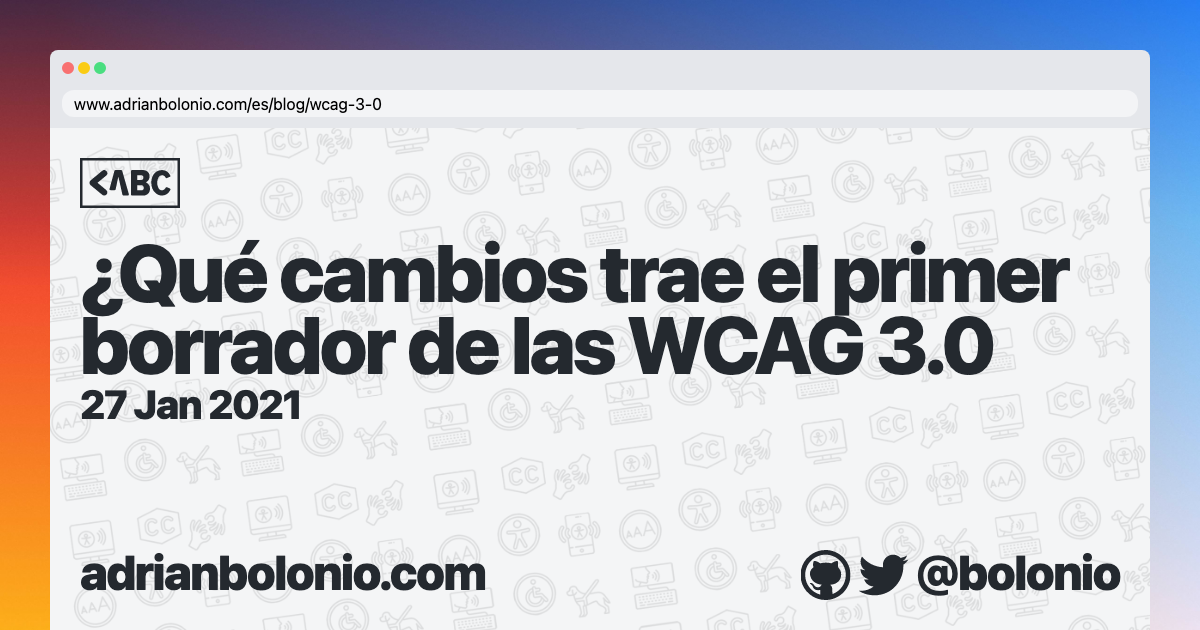
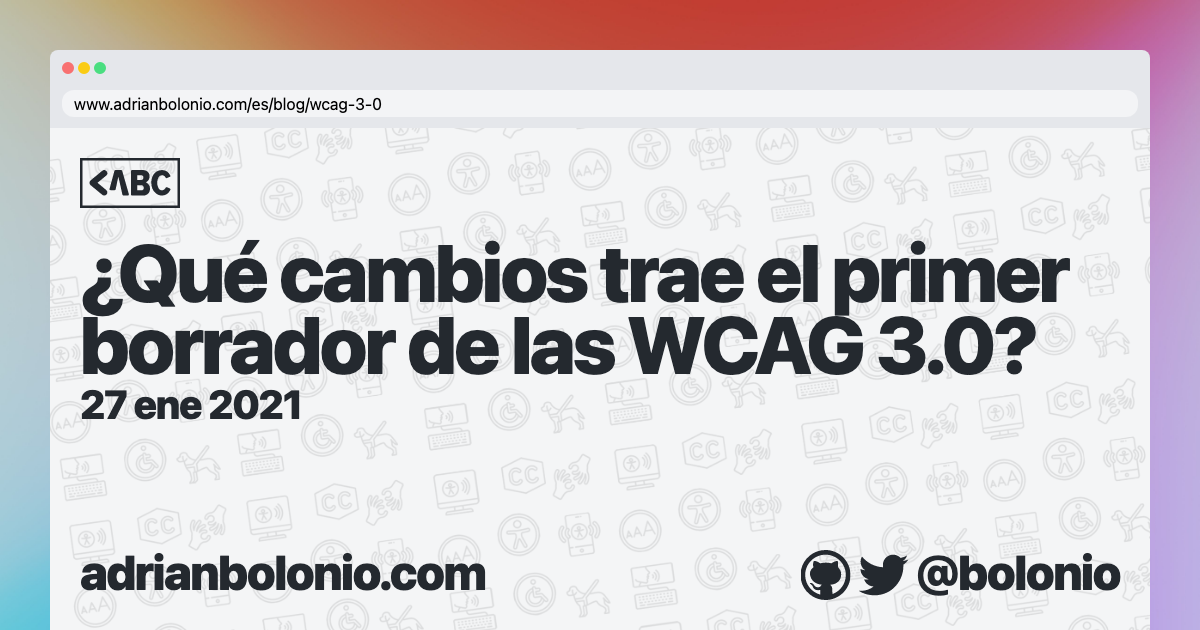
Update wcag3.0 article title and OG image. Update OG logic

Changed region(s): [[0.0, 0.0, 1.0, 1.0], [0.8325, 0.4825, 0.8633, 0.6032], [0.0925, 0.6032, 0.185, 0.6635]]

diff --git a/src/components/OGImageTemplate.tsx b/src/components/OGImageTemplate.tsx
@@ -169,7 +169,7 @@ export const OGImageTemplate = ({
               lineHeight="1.5rem"
               style={{ margin: 0 }}
             >
-              {getFormattedDate(publishedAt, "en")}
+              {getFormattedDate(publishedAt, locale)}
             </ColoredText>
           )}
         </Box>

diff --git a/src/lib/date.ts b/src/lib/date.ts
@@ -1,18 +1,3 @@
-const MONTHS = [
-  "January",
-  "February",
-  "March",
-  "April",
-  "May",
-  "June",
-  "July",
-  "August",
-  "September",
-  "October",
-  "November",
-  "December",
-]
-
 export const getFormattedDate = (
   date: string,
   locale: string | undefined = "en"

diff --git a/blog/wcag-3-0.md b/blog/wcag-3-0.md
@@ -1,9 +1,8 @@
 ---
-title: ¿Qué cambios trae el primer borrador de las WCAG 3.0
+title: ¿Qué cambios trae el primer borrador de las WCAG 3.0?
 description: El pasado 21 de enero de 2021 se publicó el primer borrador de las W3C Accessibility Guidelines (WCAG) 3.0, y viene cargadito de cambios con respecto a la versión actual.
 locale: es
 image: intro.png
-imageAlt: una imagen decorativa con la frase "¿Qué cambios trae el primer borrador de las WCAG 3.0?"
 publishedAt: "2021-01-27"
 tags:
   - Accesibilidad
